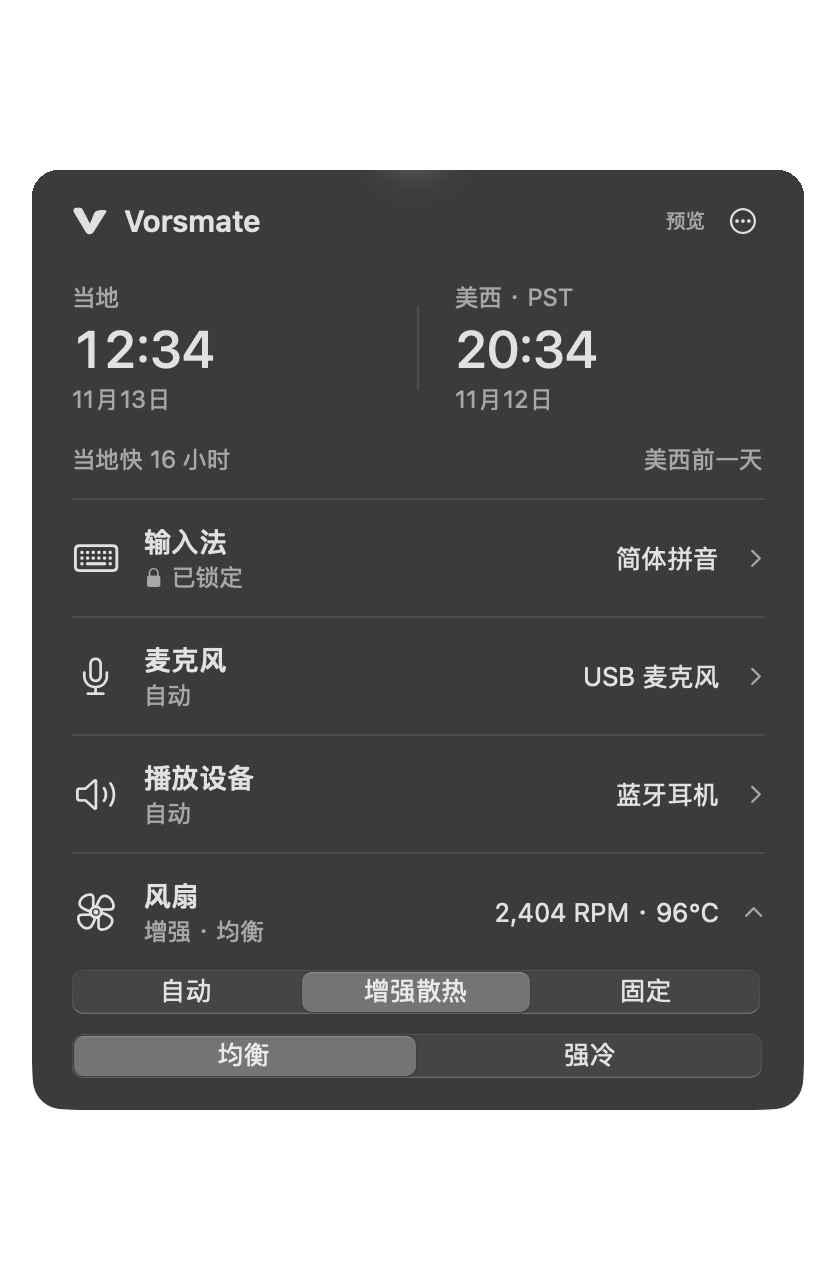
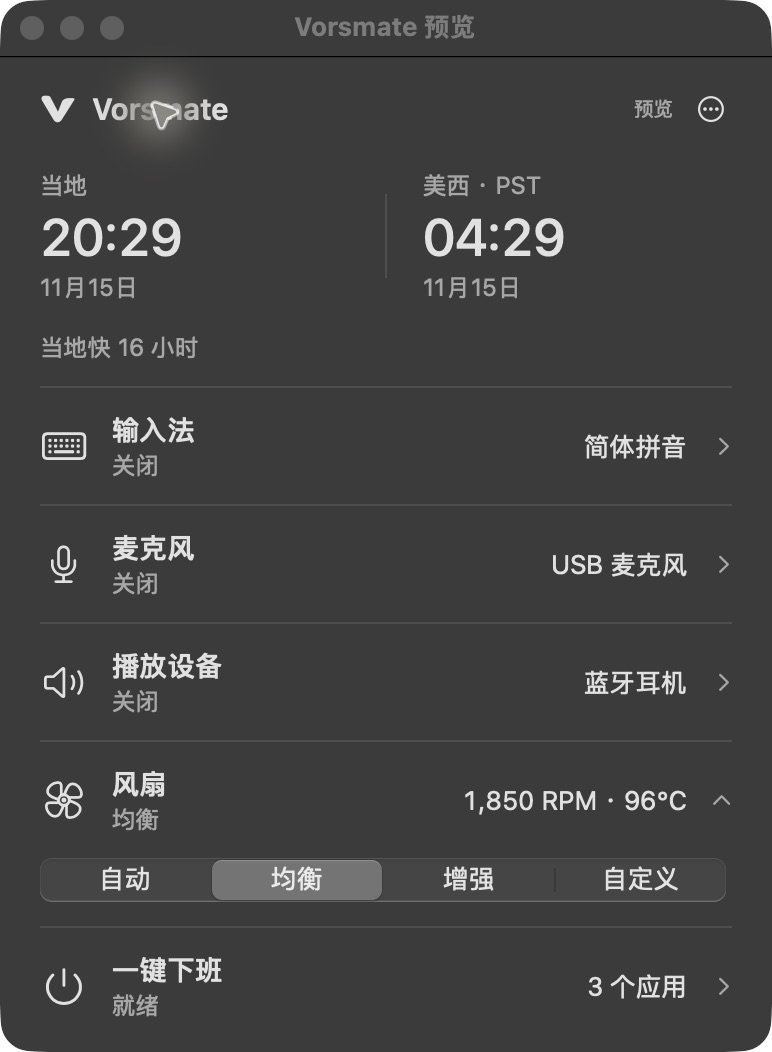
refactor(fan): present four parallel control choices

diff --git a/Sources/Vorsmate/FanView.swift b/Sources/Vorsmate/FanView.swift
@@ -1,9 +1,41 @@
 // [INPUT]: FanModel 实测状态、单项展开绑定与主线程内的 SwiftUI 模式提交。
-// [OUTPUT]: 自动 / 增强散热 / 固定；两档差异仅在悬停解释，右侧保留实测读数。
+// [OUTPUT]: 自动 / 均衡 / 增强 / 自定义四个并列选项，右侧保留实测读数。
 // [POS]: 总览中的风扇模块；展开回显生效参数与预设，未授权时提供助手启用入口。
 // [PROTOCOL]: 变更时更新此头部，然后检查 AGENTS.md
 import SwiftUI
 import VorsmateCore
+
+enum FanControlChoice: CaseIterable, Hashable {
+    case automatic, balanced, enhanced, custom
+    var title: String {
+        switch self {
+        case .automatic: "自动"
+        case .balanced: "均衡"
+        case .enhanced: "增强"
+        case .custom: "自定义"
+        }
+    }
+    init(profile: FanProfile) {
+        switch profile.mode {
+        case .system: self = .automatic
+        case .fixed: self = .custom
+        case .curve:
+            switch profile.preset {
+            case .balanced: self = .balanced
+            case .cooling: self = .enhanced
+            case nil: self = .custom
+            }
+        }
+    }
+    func profile(rpm: Double) -> FanProfile {
+        switch self {
+        case .automatic: FanProfile()
+        case .balanced: FanCurvePreset.balanced.profile
+        case .enhanced: FanCurvePreset.cooling.profile
+        case .custom: FanProfile(mode: .fixed, rpm: rpm)
+        }
+    }
+}
 
 struct FanView: View {
     @ObservedObject var model: FanModel
@@ -13,17 +45,9 @@ struct FanView: View {
         if model.needsApproval { return "等待授权" }
         if !model.helperEnabled { return "监控" }
         if !model.controlConfirmed { return "待确认" }
-        let modes = model.snapshot.profiles.values.map(\.mode)
-        if let mode = modes.first {
-            guard modes.allSatisfy({ $0 == mode }) else { return "分别设置" }
-            switch mode {
-            case .system: return "自动"
-            case .fixed: return "固定"
-            case .curve:
-                let preset = model.snapshot.profiles.values.first?.preset
-                guard model.snapshot.profiles.values.allSatisfy({ $0.preset == preset }) else { return "增强 · 分别设置" }
-                return "增强 · \(preset?.title ?? "自定")"
-            }
+        let choices = model.snapshot.profiles.values.map { FanControlChoice(profile: $0) }
+        if let choice = choices.first {
+            return choices.allSatisfy { $0 == choice } ? choice.title : "分别设置"
         }
         return model.snapshot.fans.contains(where: { $0.hardwareMode == 1 }) ? "外部控制" : "自动"
     }
@@ -83,19 +107,22 @@ private struct FanControlRow: View {
     @ObservedObject var model: FanModel
     let fan: FanReading
     @State private var rpm = 2000.0
-    @State private var preset: FanCurvePreset = .balanced
     private var current: FanProfile { model.snapshot.profiles[fan.id] ?? FanProfile() }
     var body: some View {
         VStack(alignment: .leading, spacing: 10) {
             HStack {
                 if model.snapshot.fans.count > 1 { Text("风扇 \(fan.id + 1)") }
                 // 显式闭包避免 Swift 6.3 将主线程方法转为 Binding setter 时崩溃。
-                Picker("风扇 \(fan.id + 1) 模式", selection: Binding(get: { current.mode }, set: { setMode($0) })) {
-                    Text("自动").tag(FanMode.system)
-                    Text("增强散热").tag(FanMode.curve)
-                    Text("固定").tag(FanMode.fixed)
+                Picker(
+                    "风扇 \(fan.id + 1) 模式",
+                    selection: Binding(get: { FanControlChoice(profile: current) }, set: { setChoice($0) })
+                ) {
+                    ForEach(FanControlChoice.allCases, id: \.self) { choice in
+                        Text(choice.title).tag(choice)
+                    }
                 }.labelsHidden().pickerStyle(.segmented)
-                    .help("自动：由 macOS 决定转速。增强散热：持续升温后提前加速，降温后交还系统。固定：保持指定转速。")
+                    .accessibilityIdentifier("fans.mode.\(fan.id)")
+                    .help("自动：系统调速。均衡：温和增加散热。增强：更早、更强地散热。自定义：固定转速。均衡和增强降温后交还系统，选择会保留。")
                 // 操作反馈统一在摘要行显示，分段控件不随处理中状态改变宽度。
             }
             if current.mode == .fixed, fan.hasValidRange {
@@ -108,28 +135,18 @@ private struct FanControlRow: View {
                     ).accessibilityLabel("风扇 \(fan.id + 1) 目标转速")
                     Text("\(Int(rpm)) RPM").monospacedDigit().frame(width: 82, alignment: .trailing)
                 }
-            } else if current.mode == .curve {
-                Picker(
-                    "增强风格",
-                    selection: Binding(
-                        get: { current.preset ?? preset },
-                        set: { value in
-                            preset = value
-                            model.configure(id: fan.id, profile: value.profile)
-                        })
-                ) {
-                    ForEach(FanCurvePreset.allCases, id: \.self) { value in
-                        Text(value.title).tag(value)
-                    }
+            } else if current.mode == .curve, current.preset == nil {
+                HStack {
+                    Text("温控 \(Int(current.rampStart))–\(Int(current.fullSpeed))°C").font(.callout).foregroundStyle(
+                        .secondary)
+                    Spacer()
+                    Button("设置固定转速") { setChoice(.custom) }
                 }
-                .labelsHidden().pickerStyle(.segmented)
-                .accessibilityIdentifier("fans.preset.\(fan.id)")
-                .help("均衡：持续发热约 8 秒后温和加速。强冷：约 4 秒后更早介入，同温度下转速更高。持续升温适度提前加速，降温后缓慢回落。")
             } else if fan.hardwareMode == 1, current.mode == .system {
                 HStack {
                     Text("当前为外部手动转速").font(.callout).foregroundStyle(.secondary)
                     Spacer()
-                    Button("恢复自动") { setMode(.system) }
+                    Button("恢复自动") { setChoice(.automatic) }
                 }
             }
         }.onAppear {
@@ -137,13 +154,12 @@ private struct FanControlRow: View {
                 current.mode == .fixed
                 ? current.rpm
                 : min(fan.maximumRPM, max(max(500, fan.minimumRPM), fan.actualRPM.rounded()))
-            if let active = current.preset { preset = active }
         }
         .onChange(of: current) { _, value in
-            if let active = value.preset { preset = active }
+            if value.mode == .fixed { rpm = value.rpm }
         }
     }
-    private func setMode(_ mode: FanMode) {
-        model.configure(id: fan.id, profile: mode == .curve ? preset.profile : FanProfile(mode: mode, rpm: rpm))
+    private func setChoice(_ choice: FanControlChoice) {
+        model.configure(id: fan.id, profile: choice.profile(rpm: rpm))
     }
 }

diff --git a/Tests/VorsmateUITests/FanModelTests.swift b/Tests/VorsmateUITests/FanModelTests.swift
@@ -1,6 +1,6 @@
 import Combine
 // [INPUT]: 纯内存风扇驱动和保存回调，不接触 SMC、系统授权或真实助手。
-// [OUTPUT]: 档位跨实例恢复、睡眠 / 唤醒、停用竞态、外部争抢与空闲轮询回归。
+// [OUTPUT]: 四项选择的旧配置兼容、跨实例恢复、睡眠 / 唤醒、停用竞态与安静轮询回归。
 // [POS]: FanModel 的真实生命周期测试；硬件规则另由 FanTests 覆盖。
 // [PROTOCOL]: 变更时更新此头部，然后检查 AGENTS.md
 import Foundation
@@ -13,6 +13,44 @@ import VorsmateFan
 @Suite("风扇模型恢复")
 @MainActor
 struct FanModelTests {
+    @Test("四项并列选择保存原有配置格式，均衡与增强能直接切换")
+    func parallelChoices() async throws {
+        var saved: [Int: FanProfile] = [:]
+        let driver = FanMock()
+        let model = FanModel(preview: true, driver: driver, persist: { saved = $0 })
+        model.activate()
+        await model.waitForOperations()
+        for choice in [FanControlChoice.custom, .balanced, .enhanced, .automatic] {
+            model.configure(id: 0, profile: choice.profile(rpm: 2800))
+            await model.waitForOperations()
+            let decoded = try JSONDecoder().decode(
+                [Int: FanProfile].self, from: JSONEncoder().encode(saved))
+            let profile = decoded[0] ?? FanProfile()
+            #expect(FanControlChoice(profile: profile) == choice)
+            #expect(model.snapshot.profiles == decoded)
+            switch choice {
+            case .automatic: #expect(decoded.isEmpty)
+            case .balanced: #expect(profile == FanCurvePreset.balanced.profile)
+            case .enhanced: #expect(profile == FanCurvePreset.cooling.profile)
+            case .custom: #expect(profile == FanProfile(mode: .fixed, rpm: 2800))
+            }
+        }
+        model.stop()
+        await model.waitForOperations()
+        let legacyCurve = FanProfile(mode: .curve, rampStart: 55, fullSpeed: 80)
+        var legacySaves = 0
+        let restored = FanModel(
+            preview: true, savedProfiles: [0: legacyCurve], driver: driver,
+            persist: { _ in legacySaves += 1 })
+        restored.activate()
+        await restored.waitForOperations()
+        #expect(FanControlChoice(profile: restored.snapshot.profiles[0] ?? FanProfile()) == .custom)
+        #expect(restored.snapshot.profiles[0] == legacyCurve)
+        #expect(restored.savedProfiles[0] == legacyCurve)
+        #expect(legacySaves == 0)
+        restored.stop()
+        await restored.waitForOperations()
+    }
     @Test(
         "固定和两档增强保存，跨实例与唤醒自动恢复",
         arguments: [

diff --git a/docs/fan-control.md b/docs/fan-control.md
@@ -1,18 +1,19 @@
 # 风扇控制
 
-总览左侧显示模式，右侧显示实际转速与最高 CPU / GPU 热点温度。展开后有三种模式：
+总览左侧显示模式，右侧显示实际转速与最高 CPU / GPU 热点温度。展开后有四个并列选项：
 
 | 模式 | 行为 |
 | --- | --- |
 | **自动（默认）** | 完全交给 macOS，系统自行决定何时加速；Vorsmate 不以温度阈值干预 |
-| **增强散热** | 持续升温后提前加速，提供均衡、强冷；冷却后自动交还系统，保留当前选择 |
-| **固定** | 在硬件范围内保持指定转速；不会仅因核心热点超过 90°C 而拒绝或退出，系统严重 / 临界温度压力或读数异常时交还系统 |
+| **均衡** | 确认持续升温后温和增加散热，兼顾声音；冷却后自动交还系统，保留选择 |
+| **增强** | 比均衡更早介入，同温度下转速更高；冷却后自动交还系统，保留选择 |
+| **自定义** | 在硬件范围内保持指定转速；不会仅因核心热点超过 90°C 而拒绝或退出，系统严重 / 临界温度压力或读数异常时交还系统 |
 
-增强下方只有两个档位，无需编辑温度参数。均衡确认持续发热约 8 秒，强冷约 4 秒；原始和平滑目标都高于系统当前目标至少 100 RPM 才接管，从当前转速平缓变化。系统已经要求更快转速时继续让系统管理；接管时的系统目标作为本次下界，不是手动状态下持续读取 Apple 的潜在曲线。
+四项在同一行直接选择，只有自定义显示转速滑杆，无需编辑温度参数。均衡确认持续发热约 8 秒，增强约 4 秒；原始和平滑目标都高于系统当前目标至少 100 RPM 才接管，从当前转速平缓变化。系统已经要求更快转速时继续让系统管理；接管时的系统目标作为本次下界，不是手动状态下持续读取 Apple 的潜在曲线。
 
-增强依据独立的 PMU tdie 参考温度，不直接用显示的最高核心热点套曲线。当前只在已实测的 M4 Mac mini（Mac16,10）启用。两档在持续负载下主动提供额外散热：均衡兼顾声音，强冷更早介入，同温度下转速更高。以下是已核验机型的 1000–4900 RPM 范围的稳定基础目标，点间线性变化；平滑、趋势和接管时系统下界会影响实时值。
+均衡和增强依据独立的 PMU tdie 参考温度，不直接用显示的最高核心热点套曲线。当前只在已实测的 M4 Mac mini（Mac16,10）启用。两档在持续负载下主动提供额外散热：均衡兼顾声音，增强更早介入，同温度下转速更高。以下是已核验机型的 1000–4900 RPM 范围的稳定基础目标，点间线性变化；平滑、趋势和接管时系统下界会影响实时值。
 
-| 参考温度 | 均衡 | 强冷 |
+| 参考温度 | 均衡 | 增强 |
 | --- | ---: | ---: |
 | 65°C | 自动 | 1585 RPM |
 | 70°C | 自动 | 2170 RPM |
@@ -26,7 +27,7 @@
 
 PMU 读取使用动态解析的非公开 IOKit 温度接口，后续系统更新可能改变可用性；接口缺失时停止增强，保留系统自动控制。
 
-参考温度按均衡 8 / 25 秒、强冷 4 / 30 秒的升温 / 降温时间常数平滑。连续上升至少 4 秒后，分别参考未来 6 / 10 秒的趋势，提前量最多 2 / 4°C；趋势只调整目标，不绕过接管确认。均衡 / 强冷每秒加速最多 150 / 300 RPM，降速先保持 20 / 30 秒，再每秒最多降低 60 / 80 RPM。小于 100 RPM 的目标波动保持当前值，全速和归还端点仍可到达。
+参考温度按均衡 8 / 25 秒、增强 4 / 30 秒的升温 / 降温时间常数平滑。连续上升至少 4 秒后，分别参考未来 6 / 10 秒的趋势，提前量最多 2 / 4°C；趋势只调整目标，不绕过接管确认。均衡 / 增强每秒加速最多 150 / 300 RPM，降速先保持 20 / 30 秒，再每秒最多降低 60 / 80 RPM。小于 100 RPM 的目标波动保持当前值，全速和归还端点仍可到达。
 
 温度下降到接管前系统目标对应的曲线温度再低 3°C，原始和平滑读数满足条件 30 / 45 秒且已完成缓降后归还系统。系统报告严重或临界温度压力，或读数不可用时立即交还自动；健康状态连续稳定 10 秒后重新确认持续发热。连接暂未确认时明确显示“待确认”。
 
@@ -34,7 +35,7 @@ PMU 读取使用动态解析的非公开 IOKit 温度接口，后续系统更新
 
 调速通过独立系统助手完成：使用 Apple 开发签名构建，将应用放入 `/Applications`，再点击“风扇 → 启用调速”，由用户完成系统授权。没有助手仍能监控真实温度和转速。不要同时运行其他风扇控制软件。
 
-连接断开、12 秒未续期、硬件故障或外部接管时终止本次调速。正常退出、停用模块和睡眠也释放控制但保留档位。增强和固定档位保存在 version 1 配置；启用模块且助手已授权、无竞争工具时，启动 / 唤醒自动恢复，仍由助手校验读数、压力和范围。切自动删除对应保存档位。面板隐藏且无保存或生效档位时暂停主进程三秒轮询。等待增强不登记硬件拥有权；实际写入前保存恢复责任，冷却归还时清除，回读失败则保留责任重试。安装维护可在正常退出后带 `--maintenance` 启动，使用临时菜单中的“停用风扇助手”；确认恢复成功后才注销服务。实际验收范围见[验收记录](verification.md)。
+连接断开、12 秒未续期、硬件故障或外部接管时终止本次调速。正常退出、停用模块和睡眠也释放控制但保留档位。均衡、增强和自定义保存在 version 1 配置，沿用原有曲线和固定转速格式；旧强冷档位回显为增强，旧固定档位回显为自定义。旧自定义温度曲线继续保留，主动设置固定转速才替换；启用模块且助手已授权、无竞争工具时，启动 / 唤醒自动恢复，仍由助手校验读数、压力和范围。切自动删除对应保存档位。面板隐藏且无保存或生效档位时暂停主进程三秒轮询。等待增强不登记硬件拥有权；实际写入前保存恢复责任，冷却归还时清除，回读失败则保留责任重试。安装维护可在正常退出后带 `--maintenance` 启动，使用临时菜单中的“停用风扇助手”；确认恢复成功后才注销服务。实际验收范围见[验收记录](verification.md)。
 
 
 ## 安装与更新

diff --git a/DESIGN.md b/DESIGN.md
@@ -8,7 +8,7 @@
 
 - 顶部只有应用名、更多菜单和当地 / 美西双时钟。两地日期常显，跨日时显示日期关系；默认不显示日期编辑器、滑杆或无作用的“现在”按钮。
 - 输入法、麦克风、播放设备、风扇、一键下班使用同一种摘要行：左侧图标、功能名和管理状态，右侧当前设备或转速 / 温度及展开箭头。
-- 管理状态与实测值分开：例如麦克风显示“自动”与“USB 麦克风”，风扇显示“自动”或“增强 · 均衡”与当前 RPM / °C。锁定用图标辅助识别。悬停只强调展开箭头，不绘制整行灰底或选中阴影；设备勾选与键盘焦点继续保留。
+- 管理状态与实测值分开：例如麦克风显示“自动”与“USB 麦克风”，风扇显示“自动”“均衡”“增强”或“自定义”与当前 RPM / °C。锁定用图标辅助识别。悬停只强调展开箭头，不绘制整行灰底或选中阴影；设备勾选与键盘焦点继续保留。
 - 长设备名在摘要中截断，悬停可读全文，展开列表最多两行。短暂切换异常只在原状态位置显示“恢复中”，不显示锁定图标或立即报警；恢复后回到原管理状态，持续异常才在折叠区外提示。配置、监听错误与等待设备接入仍保留必要提示。
 - 主面板仅在相邻启用模块之间显示横向分隔线，无首尾或重复分隔线；全部关闭时保留标题和菜单，展开区保留优先级分隔；更多菜单不绘制分隔线。双时钟之间的竖向分隔保留。
 
@@ -16,7 +16,7 @@
 
 - 点击整行展开，一次只展开一个模块；模式选择下方只有一份列表，同时显示当前使用项和优先级。不设独立排序入口、序号、移动按钮或拖动图标；AppKit 按鼠标移动 3 点立即起拖，不等待长按。采用“柔和吸附”：整行跟随鼠标，拖起轻微放大 1.8%，其余项目弹簧让位，松手柔和落位；无重阴影，系统减少动态效果时停用缩放和弹簧。点击在线项目切换并锁定，拖动不触发选择。松手一次保存，取消拖动不改变配置；Escape、列表外松手与关闭取消预览；外部配置变化取消过时手势，普通设备回读保留手势。保留方向键 / 回车选择、Option + 上下键与辅助移动，长列表原生滚动及边缘拖动滚动，离线项目保留位置与状态。
 - 无线麦接收器保留在列表和原优先级中，未就绪时同行显示“等待发射器”或“连接状态未知”；不新增开关。手动选择仍保存锁定，就绪前用备用设备、连接后恢复。自动模式下总览继续显示实际使用的麦克风。
-- 风扇展开依次显示自动 / 增强散热 / 固定。自动为日常默认，不显示额外参数；增强下方只有均衡 / 强冷，选择后先由系统管理，再确认持续升温；固定显示转速滑杆。不再设置重复的安静档或温度编辑器。重新展开回显当前档位。悬停帮助说明核心热点与独立参考温度，不堆常驻说明。待命和临时系统保护保留增强选择；异常状态就地说明，连接未确认时显示“待确认”，不伪装成自动。
+- 风扇展开只有一行自动 / 均衡 / 增强 / 自定义四个并列选项。自动为日常默认；均衡温和增加散热，增强更早、更强，两档选择后先由系统管理，再确认持续升温。自定义显示固定转速滑杆；不显示二级档位或温度编辑器。原强冷映射为增强，固定映射为自定义，保存格式不变；旧自定义曲线保留，主动设置固定转速才替换。重新展开回显当前档位。悬停帮助说明核心热点与独立参考温度，不堆常驻说明。待命和临时系统保护保留增强选择；异常状态就地说明，连接未确认时显示“待确认”，不伪装成自动。
 - 风扇增强 / 固定记住档位，已授权且无竞争工具时启动和唤醒恢复；睡眠和停用交回系统，隐藏且自动空闲时停止主进程轮询。
 - 一键下班排在风扇下方。默认显示「就绪」和可清理应用数，展开显示关机 / 重启、强制退出 / 禁止恢复窗口开关及可点击的清理 / 跳过应用列表。倒计时五秒期间显示状态和取消，Esc 取消；隐藏面板或停用模块也取消。选项与列表在倒计时 / 执行中禁用。未保存内容风险放在强制开关帮助中；跳过仅跳过本次清理，不能保留应用跨关机。错误和模拟结果在摘要下同一处展示，收起操作区仍可见。
 - 点击任一时钟展开该地区日期编辑器与当地当天滑杆；切另一时钟更换编辑地区。“完成”保留换算结果，“现在”恢复实时时间。

diff --git a/README.en.md b/README.en.md
@@ -16,7 +16,7 @@ Actual app screenshots using sample data. Click to switch; drag to reorder in th
 <details>
 <summary>Fan controls</summary>
 
-<img src="docs/images/fan-control.png" width="370" alt="Expanded fan controls with automatic, enhanced cooling, fixed speed, balanced, and strong cooling options">
+<img src="docs/images/fan-control.png" width="370" alt="Expanded fan controls with four parallel choices: Automatic, Balanced, Enhanced, and Custom">
 
 </details>
 
@@ -24,7 +24,7 @@ Actual app screenshots using sample data. Click to switch; drag to reorder in th
 
 - **Input sources** — Switch quickly, lock a preferred input source, or drag to set priorities for automatic selection.
 - **Audio devices** — Reorder and lock microphone and playback devices independently. Fall back when a device disconnects and restore it when it returns. Supported wireless receivers become eligible only when a transmitter connects.
-- **Fan control** — System automatic, enhanced cooling, and fixed speed. Balanced and strong cooling use different response curves, with temperature smoothing and gradual cooldown.
+- **Fan control** — Four direct choices: Automatic, Balanced, Enhanced, and Custom. Balanced and Enhanced smooth temperature changes and slow down gradually; Custom sets a fixed speed.
 - **Quick Shutdown** — Clean up apps before shutting down or restarting, with a cancellable five-second countdown and per-app exclusions.
 - **Modules** — Enable or disable all six modules independently; disabling stops their background work.
 - **Time comparison** — View local and US Pacific time side by side. Convert dates and times with daylight saving handled for both locations.
@@ -55,7 +55,7 @@ For supported wireless microphones, availability follows the transmitter connect
 
 After a temporary switching failure, Vorsmate waits and rechecks automatically. Your lock or priority rules resume once the state recovers; a warning appears only if the problem persists.
 
-Fans default to system control. Enhanced cooling responds to sustained heat, slows gradually as temperatures drop, and returns control to macOS. Fixed mode maintains a chosen speed. Enhanced and fixed profiles are saved and restored on startup and wake when the helper is authorized and no competing fan tool is running. Sleep, app exit, and module disable return control to macOS while retaining saved profiles; choosing Automatic clears them. Hidden, idle monitoring pauses the main-process polling timer.
+Fans offer four parallel choices: Automatic, Balanced, Enhanced, and Custom. Automatic uses system control. Balanced and Enhanced respond to sustained heat, slow gradually as temperatures drop, and return control to macOS; Enhanced starts earlier and runs faster. Custom maintains a chosen speed. The last three choices are saved and restored on startup and wake when the helper is authorized and no competing fan tool is running. Sleep, app exit, and module disable return control to macOS while retaining saved profiles; choosing Automatic clears them. Hidden, idle monitoring pauses the main-process polling timer.
 
 The left clock follows the Mac’s current time zone; the right shows US Pacific local time (PST / PDT). Click either clock to edit a date or use the slider to compare times. “Now” or closing the panel returns to the current time without changing the system time zone.
 

diff --git a/AGENTS.md b/AGENTS.md
@@ -13,7 +13,7 @@ Swift 6 + Swift Package Manager + SwiftUI / AppKit + Sparkle + TIS + CoreAudio +
 - 产品文案只写本项目功能；实际引入的第三方源码保留必要的版权与许可通知。
 - 不修改其他已安装管理软件的配置，不隐式注册登录项，不自动发布或安装。
 - 风扇首次默认自动（系统控制），调速通过用户授权的独立助手。固定 / 增强保存至配置，启用插件且助手已授权、无竞争工具时在启动与唤醒恢复；睡眠、停用、退出释放硬件但保留档位。面板隐藏且无保存 / 生效档位时暂停主进程轮询。只恢复本助手接管的风扇，不自动开启全局诊断解锁。
-- 界面为自动 / 增强散热 / 固定；增强仅保留均衡 / 强冷。自动不受自定义阈值干预。增强在已实测 Mac16,10 使用独立 PMU tdie 参考温度：均衡 70–95°C、确认 8 秒；强冷 60–90°C、确认 4 秒。分段曲线让持续中负载下两档有实际转速差，持续上升采用有限提前量，降温缓降；参数见 docs/fan-control.md。这些是本项目偏好，不是芯片极限。最高核心温度仅监控；缺少参考读数或机型未核验时保持自动，不回退到热点驱动。
+- 界面为自动 / 均衡 / 增强 / 自定义四个并列选项；均衡和增强对应原曲线，自定义调节固定转速，旧配置格式不变。自动不受自定义阈值干预。增强在已实测 Mac16,10 使用独立 PMU tdie 参考温度：均衡 70–95°C、确认 8 秒；增强 60–90°C、确认 4 秒。分段曲线让持续中负载下两档有实际转速差，持续上升采用有限提前量，降温缓降；参数见 docs/fan-control.md。这些是本项目偏好，不是芯片极限。最高核心温度仅监控；缺少参考读数或机型未核验时保持自动，不回退到热点驱动。
 - 增强待命不拥有硬件；目标高于系统当前目标才接管，从现有转速平滑变化，冷却后释放拥有权并保留增强选择。系统严重 / 临界压力或无效温度立即交回自动，增强恢复稳定 10 秒后重新确认持续升温；失联、退出、故障与外部争抢终止本次控制。固定转速不再以最高核心热点 90°C 阻止选择或退出；仅在读数有效、系统压力正常 / 轻度及硬件范围内允许控制，触发保护后不自动恢复固定。
 - 控制意图与硬件读数分别确认：助手未响应时显示待确认，不能用只读 SMC 的空配置伪装为系统模式；迟到的查询不覆盖用户新操作。
 - 时间对照使用系统当前时区与 America/Los_Angeles，按所选时刻分别处理夏令时；运行中跟随时区变化，当天滑杆按实际日长换算。顶部常显双时钟，点时钟展开滑杆与日期编辑；完成时保留换算，关闭面板回到当前时间，不改变系统时区。

diff --git a/README.md b/README.md
@@ -16,7 +16,7 @@
 <details>
 <summary>风扇控制界面</summary>
 
-<img src="docs/images/fan-control.png" width="370" alt="Vorsmate 展开的风扇控制：自动、增强散热、固定转速与均衡、强冷档位">
+<img src="docs/images/fan-control.png" width="370" alt="Vorsmate 展开的风扇控制：自动、均衡、增强、自定义四个并列选项">
 
 </details>
 
@@ -24,7 +24,7 @@
 
 - **输入法管理**：快速切换、锁定输入源，或拖动排序后按优先级自动选择。
 - **音频管理**：麦克风与播放设备分别排序、分别锁定。设备断开时回退，重连后恢复。支持的无线接收器在发射器连接后才参与选择。
-- **风扇控制**：系统自动、增强散热和固定转速。均衡与强冷采用不同响应，配合温度平滑和缓降。
+- **风扇控制**：自动、均衡、增强、自定义四项直接选择。均衡与增强配合温度平滑和缓降，自定义调节固定转速。
 - **一键下班**：清理应用后关机或重启，五秒内可取消；可跳过应用、选择强制退出和禁止下次恢复窗口。
 - **功能模块**：六个模块独立开关，关闭即停止相应后台工作。
 - **时间对照**：并排查看当地与美西时间，点击即可换算日期与时刻，自动处理两地夏令时。
@@ -55,7 +55,7 @@
 
 短暂切换异常时会先冷却、自动复查，恢复正常后继续原锁定或优先级；只有异常持续才显示提示。
 
-风扇默认由系统管理。选择增强散热后，持续升温才加速，降温后缓慢回落并交还系统；固定模式保持指定转速。增强与固定档位会保存；助手已授权且无竞争工具时，启动和睡眠唤醒自动恢复。睡眠、停用模块与退出先交回系统，保留档位；切回自动才清除保存档位。面板隐藏且没有调速任务时暂停主进程风扇轮询。
+风扇有自动、均衡、增强、自定义四个并列选项。自动由系统管理；均衡与增强在持续升温后加速，增强更早、更强，降温后缓慢回落并交还系统；自定义保持指定转速。后三项会保存；助手已授权且无竞争工具时，启动和睡眠唤醒自动恢复。睡眠、停用模块与退出先交回系统，保留档位；切回自动才清除保存档位。面板隐藏且没有调速任务时暂停主进程风扇轮询。
 
 左侧时钟跟随 Mac 当前时区，右侧为美西当地时间（PST / PDT）。点击任一时钟编辑日期、拖动滑杆换算；“现在”或关闭面板恢复实时时间，不修改系统时区。
 

diff --git a/Sources/Vorsmate/AGENTS.md b/Sources/Vorsmate/AGENTS.md
@@ -15,7 +15,7 @@
 - FanModelDriver.swift：真实 SMC / XPC / SMAppService 与内存预览的可替换边界，支持无硬件模型测试。
 - PluginHost.swift：六插件生命周期协议、注册表、幂等启停、刷新 / 显隐分发与开关持久化失败保护；时间资源随视图启停。
 - QuickShutdownView.swift：第五个展开模块、应用数量 / 倒计时摘要、关机 / 重启按钮、选项、跳过列表与执行反馈。
-- FanView.swift：摘要显示自动 / 增强档位与实测值；展开自动 / 增强散热 / 固定，增强仅均衡 / 强冷，不显示温度编辑器；悬停区分热点与参考温度，临时保护与确认失败明确显示。
+- FanView.swift：摘要显示自动 / 均衡 / 增强 / 自定义与实测值；展开为四个并列选项，自定义显示固定转速滑杆，兼容原有档位和旧自定义曲线；悬停区分热点与参考温度，临时保护与确认失败明确显示。
 - TimeComparisonView.swift：当地 / 美西双时钟，响应系统时区变化，点击展开当天滑杆与双向日期编辑；完成保留换算，现在 / 关闭面板复位，仅可见时定时更新。
 
 - UpdateModel.swift：官方 GitHub Releases 定时发现、检查菜单与 Sparkle 调度，不改配置或助手注册。

diff --git a/docs/verification.md b/docs/verification.md
@@ -16,6 +16,10 @@
 
 原生隔离预览观察了第五个展开模块、跳过后的数量变化、Esc 取消、模块停用移除 / 重启用保持收起、时间模块移除后布局与完整“已完成模拟重启”反馈。本机安装后已实测启动自动读取 `settings.json` 中的增强 · 强冷档位并在持续升温确认后接管硬件（`hardwareMode = 1`）。没有关闭真实应用、关机或重启；整机重启、睡眠唤醒与系统关机权限执行仍待后续实机观察。
 
+## 四项风扇选择
+
+自动 / 均衡 / 增强 / 自定义改为一行直接选择。10 项风扇模型测试通过，覆盖旧配置往返、均衡与增强直接切换、旧自定义曲线保留，以及后台刷新不禁用控件的回归。原生隔离预览确认四项切换、摘要回显、自定义滑杆调节和切回自动收起参数；README 风扇截图使用该预览的演示数据。此次沿用现有散热算法与助手，不代表新增机型或完整冷热循环验收。
+
 ## 自动检查
 
 CI 在 macOS 上执行 Swift 格式检查、`swift test` 与 `scripts/build.sh`，验证临时签名的应用和助手、检查随包许可。测试使用替身，不切换运行机器的输入法或音频设备，也不调整真实风扇。

diff --git a/Tests/VorsmateUITests/AGENTS.md b/Tests/VorsmateUITests/AGENTS.md
@@ -7,6 +7,6 @@
 - UpdatePanelTests.swift：安装 / 稍后 / 关闭只消费一次回调，新状态保留及不可中断阶段的关闭保护。
 
 - PluginHostTests.swift：全 64 组合生命周期 / 顺序、保存失败不改运行态及禁用跨实例恢复。
-- FanModelTests.swift：Mock 风扇驱动验证固定 / 均衡 / 强冷保存和启动 / 唤醒恢复、空闲停轮询、未授权 / 争抢与停用在途命令隔离、后台读数安静刷新 / 去重、读取中切档和停用重启恢复。
+- FanModelTests.swift：Mock 风扇驱动验证四项并列选择的旧配置兼容、均衡 / 增强直接切换、固定 / 曲线保存和启动 / 唤醒恢复、空闲停轮询、未授权 / 争抢与停用在途命令隔离、后台读数安静刷新 / 去重、读取中切档和停用重启恢复。
 
 [PROTOCOL]: 变更时更新此头部，然后检查 AGENTS.md

diff --git a/docs/AGENTS.md b/docs/AGENTS.md
@@ -2,7 +2,7 @@
 
 > L2 | 父级: ../AGENTS.md
 
-- fan-control.md：三种风扇模式、两档曲线、参考温度、签名授权与保护恢复的公开说明。
+- fan-control.md：四个并列风扇选项、两档曲线、参考温度、签名授权与保护恢复的公开说明。
 - wireless-microphones.md：发射器就绪、自动 / 锁定回退、确认时间、协议与匹配边界；无录音依赖。
 - verification.md：自动检查、已完成实机观察和未验证范围；不保存本机诊断、个人信息或开发过程日志。
 
